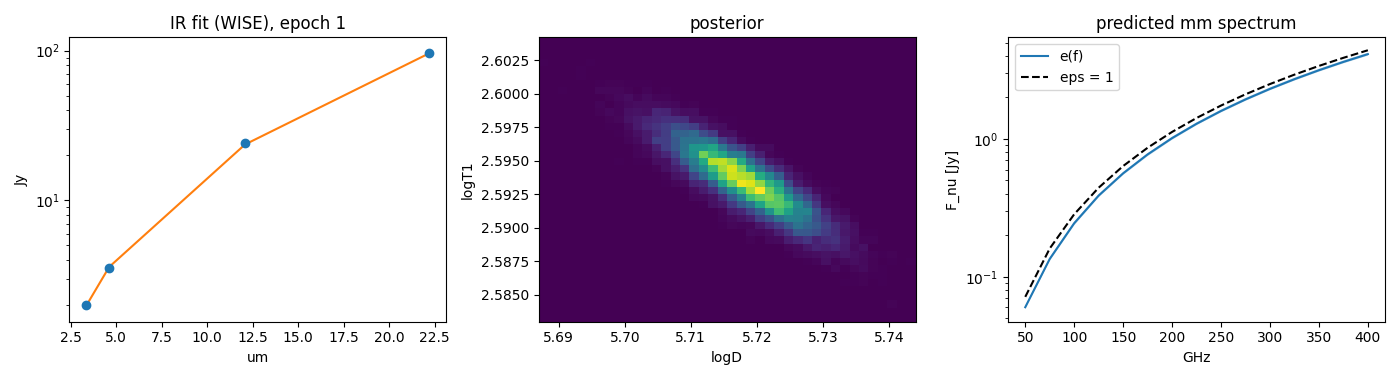
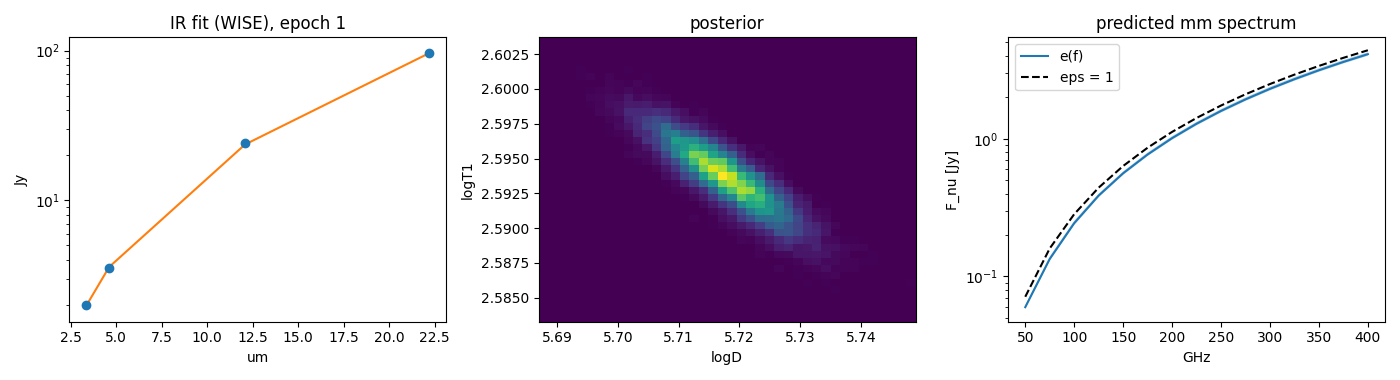
Add nuF_nu SED figure with emissivity ratio panel

diff --git a/reports/vesta/ir_to_mm_WISE.html b/reports/vesta/ir_to_mm_WISE.html
@@ -1,3 +1,3 @@
-<h2>IR to mm: WISE</h2><p>emissivity: L5_l5c.npz; acceptance 0.65; best chi2 = 5.7 for 12 points.</p><img src="ir_to_mm_WISE.png"><pre>        logD   logT1     eps  logprob
-mean  5.7181  2.5935  0.8982  -4.3506
-std   0.0069  0.0023  0.0038   1.2356</pre>
+<h2>IR to mm: WISE</h2><p>emissivity: L5_l5c.npz; acceptance 0.65; best chi2 = 5.7 for 12 points.</p><img src="ir_to_mm_WISE.png"><img src="ir_to_mm_WISE_sed.png"><pre>        logD   logT1     eps  logprob
+mean  5.7178  2.5937  0.8982  -4.3554
+std   0.0071  0.0023  0.0039   1.2174</pre>

diff --git a/scripts/ir_to_mm.py b/scripts/ir_to_mm.py
@@ -196,10 +196,30 @@ def main() -> None:
     ax[2].legend()
     fig.tight_layout()
     fig.savefig(a.out / f"ir_to_mm_{a.obs}.png", dpi=100)
+    sed, (top, bot) = plt.subplots(
+        2, 1, figsize=(7, 6), sharex=True, gridspec_kw={"height_ratios": [3, 1.3]}
+    )
+
+    def nuF(F: np.ndarray) -> np.ndarray:
+        """nu F_nu [W m^-2] from F_nu [Jy] at the frequencies f [GHz]."""
+        return F * f * 1e9 * 1e-26
+
+    top.fill_between(f, nuF(pred["lo"]), nuF(pred["hi"]), alpha=0.3)
+    top.plot(f, nuF(pred["med"]), label="NEATM with e(f)")
+    top.plot(f, nuF(const["med"]), "k--", label="NEATM with eps = 1")
+    top.set(xscale="log", yscale="log", ylabel=r"$\nu F_\nu$ [W m$^{-2}$]")
+    top.legend()
+    ratio = pred["F_nu"] / const["F_nu"]
+    bot.fill_between(f, *np.percentile(ratio, [16, 84], axis=0), alpha=0.3)
+    bot.plot(f, np.median(ratio, axis=0))
+    bot.axhline(1, c="k", ls="--")
+    bot.set(xlabel="GHz", ylabel="e(f) / (eps = 1)")
+    sed.tight_layout()
+    sed.savefig(a.out / f"ir_to_mm_{a.obs}_sed.png", dpi=100)
     html = (
         f"<h2>IR to mm: {a.obs}</h2><p>emissivity: {a.emissivity.name}; acceptance {samples.attrs['acceptance']:.2f}; "
         f"best chi2 = {samples.attrs['chi2_best']:.1f} for {samples.attrs['ndata']} points.</p>"
-        f'<img src="ir_to_mm_{a.obs}.png"><pre>{samples.describe().loc[["mean", "std"]].round(4)}</pre>'
+        f'<img src="ir_to_mm_{a.obs}.png"><img src="ir_to_mm_{a.obs}_sed.png"><pre>{samples.describe().loc[["mean", "std"]].round(4)}</pre>'
     )
     (a.out / f"ir_to_mm_{a.obs}.html").write_text(html)
     print(a.out / f"ir_to_mm_{a.obs}.html")
